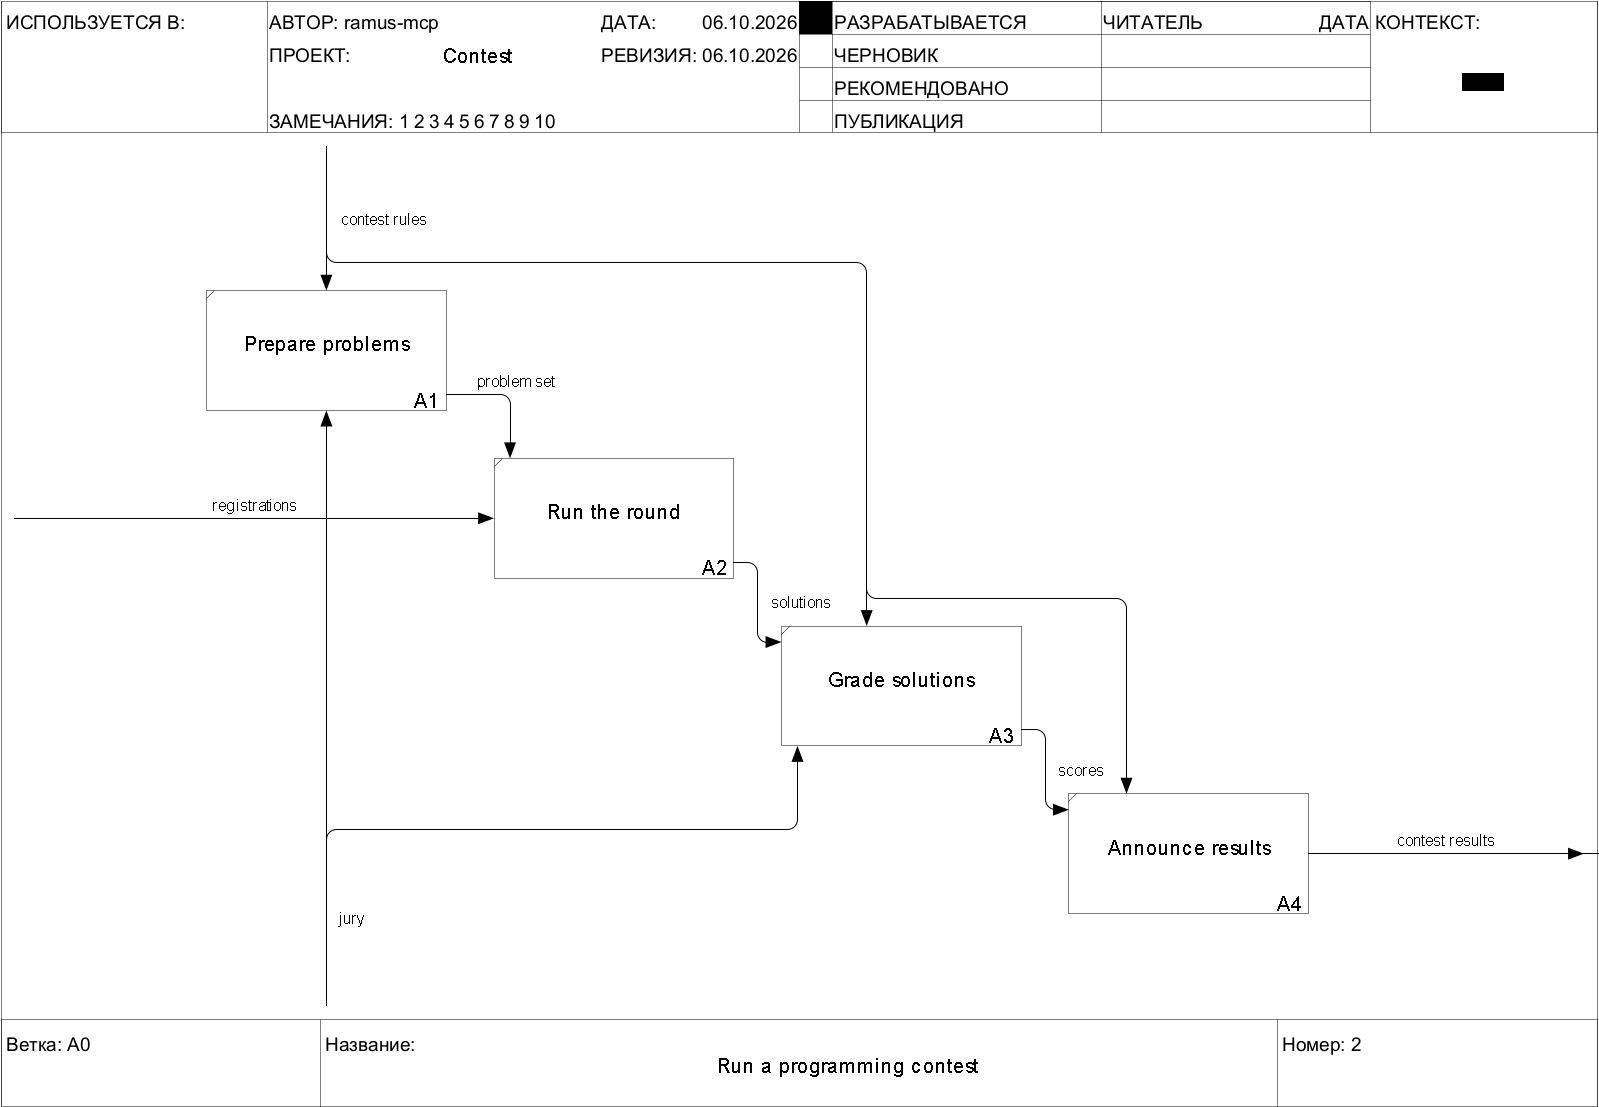
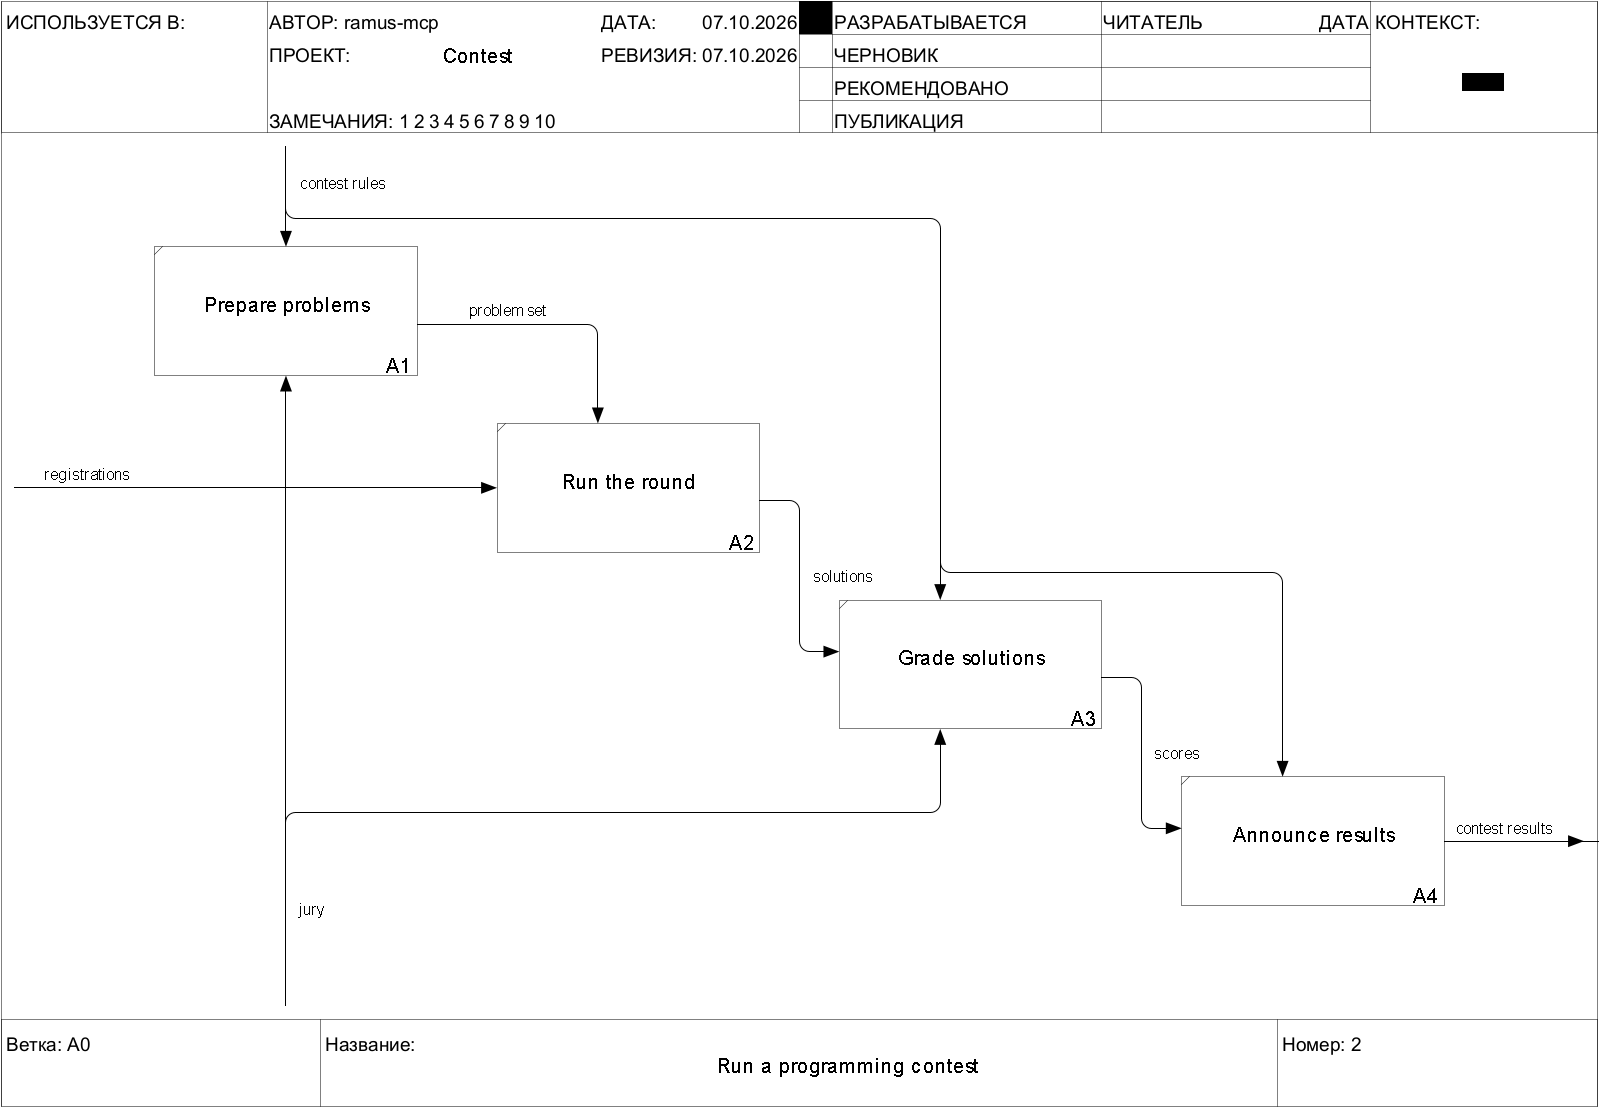
Show the diagram form and a data flow diagram in the README; version 1.1.0
The demo pictures are drawn again with this version: the boxes fitted
down the diagonal, arrows off the corners. Two more: the decomposition
in the IDEF0 diagram form, and a data flow diagram of an online shop.

diff --git a/tools/make_demo.py b/tools/make_demo.py
@@ -6,6 +6,8 @@ For each language it writes, under docs/images/<lang>/:
 * build.gif         - the model growing, one tool call per frame;
 * context.png       - the context diagram A-0;
 * decomposition.png - the top decomposition A0;
+* form.png          - the same decomposition in the IDEF0 diagram form;
+* dfd.png           - a data flow diagram built the same way;
 * in-ramus.png      - the same file as the Ramus engine draws it (only with RAMUS_JAVA and
                       RAMUS_MCP_JAR set, see ramus_validate.py).
 
@@ -28,6 +30,7 @@ from PIL import Image, ImageDraw, ImageFont  # noqa: E402
 import idef0_rules as rules  # noqa: E402
 from model_editor import ModelEditor  # noqa: E402
 from render_png import render_diagram_png  # noqa: E402
+from scene import Form  # noqa: E402
 
 # One process, told in two languages.
 DEMOS = {
@@ -46,6 +49,25 @@ DEMOS = {
         "input": "registrations", "control": "contest rules",
         "mechanism": "jury", "output": "contest results",
         "tasks": "problem set", "solutions": "solutions", "scores": "scores",
+    },
+}
+# A data flow diagram of an online shop, in the same two languages.
+DFD = {
+    "ru": {
+        "top": "Обработать заказ интернет-магазина", "project": "Магазин",
+        "processes": ["Принять заказ", "Проверить оплату", "Собрать заказ", "Отгрузить заказ"],
+        "externals": ["Клиент", "Банк"], "stores": ["Заказы", "Каталог товаров"],
+        "flows": ["заказ", "цены товаров", "новый заказ", "счёт", "запрос оплаты",
+                  "подтверждение оплаты", "оплаченный заказ", "собранный заказ",
+                  "отметка об отгрузке", "уведомление"],
+    },
+    "en": {
+        "top": "Process an online order", "project": "Shop",
+        "processes": ["Take the order", "Check the payment", "Pick the order", "Ship the order"],
+        "externals": ["Customer", "Bank"], "stores": ["Orders", "Catalog"],
+        "flows": ["order", "prices", "new order", "invoice", "payment request",
+                  "payment confirmation", "paid order", "picked order", "shipping mark",
+                  "notice"],
     },
 }
 WIDTH = 960  # of a GIF frame
@@ -115,6 +137,35 @@ def build(lang: str, folder: str, snap) -> str:
     ed.save()
     found = rules.check(ed.snapshot())
     print(f"{lang}: check_model {rules.summary(found)}", [(f.sheet, f.rule) for f in found])
+    return path
+
+
+def build_dfd(lang: str, folder: str) -> str:
+    """The data flow diagram demo: processes down the diagonal, the customer and the bank
+    beside them, two data stores below; flows on whichever side suits."""
+    t = DFD[lang]
+    path = os.path.join(folder, f"dfd-{lang}.rsf")
+    ed = ModelEditor.create(path, t["top"], author="ramus-mcp", project=t["project"],
+                            notation="dfd")
+    top = next(a.element_id for a in ed.snapshot().activities().values() if a.number == "A0")
+    a = [ed.add_activity(top, n)["id"] for n in t["processes"]]
+    client, bank = (ed.add_activity(top, n, kind="external")["id"] for n in t["externals"])
+    orders, catalog = (ed.add_activity(top, n, kind="store")["id"] for n in t["stores"])
+    f = iter(t["flows"])
+    for source, target in (
+            ({"activity": client}, {"activity": a[0]}),
+            ({"activity": catalog, "side": "top"}, {"activity": a[0], "side": "bottom"}),
+            ({"activity": a[0]}, {"activity": orders, "side": "top"}),
+            ({"activity": a[0]}, {"activity": a[1]}),
+            ({"activity": a[1]}, {"activity": bank}),
+            ({"activity": bank, "side": "bottom"}, {"activity": a[1], "side": "bottom"}),
+            ({"activity": a[1]}, {"activity": a[2]}),
+            ({"activity": a[2]}, {"activity": a[3]}),
+            ({"activity": a[3], "side": "bottom"}, {"activity": orders, "side": "right"}),
+            ({"activity": a[3], "side": "top"}, {"activity": client, "side": "top"})):
+        ed.add_arrow(top, source, target, next(f))
+    ed.tidy_sheet(top)
+    ed.save()
     return path
 
 
@@ -204,6 +255,12 @@ def main() -> None:
             for node, name in (("A-0", "context.png"), ("A0", "decomposition.png")):
                 with open(os.path.join(folder, name), "wb") as fh:
                     fh.write(_sheet_png(model, node))
+            top = next(d for d in model.diagrams() if d.node == "A0")
+            with open(os.path.join(folder, "form.png"), "wb") as fh:
+                fh.write(render_diagram_png(top, form=Form(**model.form_of(top))))
+            dfd = ModelEditor(build_dfd(lang, tmp)).snapshot()
+            with open(os.path.join(folder, "dfd.png"), "wb") as fh:
+                fh.write(_sheet_png(dfd, "A0"))
             _in_ramus(path, folder)
             sizes = {f: os.path.getsize(os.path.join(folder, f)) // 1024
                      for f in sorted(os.listdir(folder))}

diff --git a/README.md b/README.md
@@ -45,6 +45,14 @@ that Ramus opens.
     <td align="center"><sub>Context diagram A-0</sub></td>
     <td align="center"><sub>Its decomposition A0 — <code>check_model</code>: no errors, no warnings</sub></td>
   </tr>
+  <tr>
+    <td width="50%"><img src="docs/images/en/form.png" alt="A0 in the IDEF0 diagram form"></td>
+    <td width="50%"><img src="docs/images/en/dfd.png" alt="A data flow diagram"></td>
+  </tr>
+  <tr>
+    <td align="center"><sub>The same sheet in the IDEF0 diagram form — <code>export_diagram</code> writes it for a report</sub></td>
+    <td align="center"><sub>A data flow diagram (DFD): processes, external entities, data stores</sub></td>
+  </tr>
 </table>
 
 ## Install in Claude Desktop
